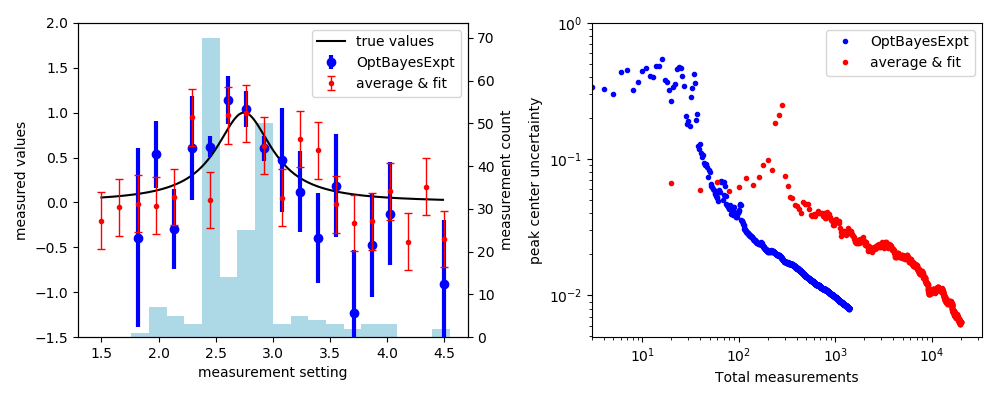
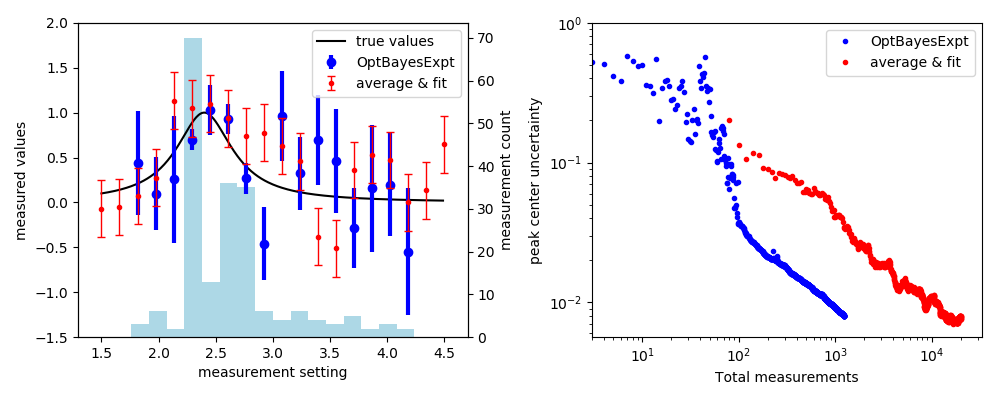
make tweaks to 2nd demo

diff --git a/Docs/manual.html b/Docs/manual.html
@@ -13162,8 +13162,10 @@ March 29, 2019</p>
 <p><a id="requirements"></a></p>
 <h2 id="Requirements-for-users">Requirements for users<a class="anchor-link" href="#Requirements-for-users">&#182;</a></h2><p>It takes a little effort to get this software up and running.  Here's what a user will need to supply to get started.</p>
 <ol>
+<li>Python 3.x</li>
+<li>numpy python package</li>
 <li>An experiment that yields measurement results with uncertainty estimates. </li>
-<li>A model for the experiment - typically a function with parameters to be determined. </li>
+<li>A parametric model for the experiment - typically a function with parameters to be determined. </li>
 <li>A working knowledge of Python programming - enough to follow examples and program your own model.</li>
 </ol>
 
@@ -13184,7 +13186,7 @@ March 29, 2019</p>
 </div><div class="inner_cell">
 <div class="text_cell_render border-box-sizing rendered_html">
 <h3 id="10-$\times$-measurement-speedup">10 $\times$ measurement speedup<a class="anchor-link" href="#10-$\times$-measurement-speedup">&#182;</a></h3><p><img src="images/rootN.png" alt="Mechanism of speedup"></p>
-<p>Figure 2: A different view of the Lorentzian peak problem, contrasting efficiency diffrences between methods.   The left panel shows results after 200 measurements of a peak.  In the "average &amp; fit" method, 10 simulated measurements are averaged at each of 20 points.  In the OptBayesExpt method, the algorithm focuses attention on the sides of the peak, as shown in the histogram.  The right panel plots the evolution of uncertainty with the number of accumulated measurements.  Both the average &amp; fit technique and the OptBayesExpt method scale like $1/\sqrt{N}$ ($N$ = measurement number) for large $N$, but the BayesOptExpt requires approximately 10 times fewer measurements to achieve the same uncertainty.  For the OptBayesExpt results, the uncertatinty is the standard deviation of the parameter distribution function, with peak height and background treated as nuisance variables.  The average &amp; fit method used <code>scipy.optimize.curve_fit()</code>.  The uncertainty plotted here is the square root of the diagonal element in the covariance matrix.  Details: the peak height, background level and peak center are treated as unknowns, and the half-width linewidth is fixed at 0.3.  The simulated experimental noise is Gaussian with standard deviation $\sigma = 1$.  Repeated runs show a variety of OptBayesExpt behaviors with the initial measurements, which is typically followed by a rapid decrease in the uncertainty and a transition to $1/\sqrt{N}$ behavior. See <code>Demos/demoLorentzian2.py</code>.</p>
+<p>Figure 2: A different view of the Lorentzian peak problem, contrasting efficiency diffrences between methods.   The left panel shows results after 200 measurements of a peak.  In the "average &amp; fit" method, 10 simulated measurements are averaged at each of 20 points.  In the OptBayesExpt method, the algorithm focuses attention on the sides of the peak, as shown in the histogram.  Note the small error bars at setting values with many measurements. The right panel plots the evolution of uncertainty with the number of accumulated measurements.  Both the average &amp; fit technique and the OptBayesExpt method scale like $1/\sqrt{N}$ ($N$ = measurement number) for large $N$, but the BayesOptExpt requires approximately 10 times fewer measurements to achieve the same uncertainty.  For the OptBayesExpt results, the uncertatinty is the standard deviation of the parameter distribution function, with peak height and background treated as nuisance variables.  The average &amp; fit method used <code>scipy.optimize.curve_fit()</code>.  The uncertainty plotted here is the square root of the diagonal element in the covariance matrix.  Details: the peak height, background level and peak center are treated as unknowns, and the half-width linewidth is fixed at 0.3.  The simulated experimental noise is Gaussian with standard deviation $\sigma = 1$.  Repeated runs show a variety of OptBayesExpt behaviors with the initial measurements, which is typically followed by a rapid decrease in the uncertainty and a transition to $1/\sqrt{N}$ behavior. See <code>Demos/demoLorentzian2.py</code>.</p>
 
 </div>
 </div>
@@ -13193,7 +13195,7 @@ March 29, 2019</p>
 </div><div class="inner_cell">
 <div class="text_cell_render border-box-sizing rendered_html">
 <h3 id="Tuning-a-$\pi$-pulse">Tuning a $\pi$ pulse<a class="anchor-link" href="#Tuning-a-$\pi$-pulse">&#182;</a></h3><p><img src="images/pipulsefig2.png" alt="measurements of transition probability vs pulse length and detuning"></p>
-<p>Figure 2: A $\pi$ pulse is a method of inverting spins that is frequenly used in nuclear magnetic resonance (NMR and MRI) and pulsed electron paramagnetic resonance (EPR).  In order to be accurate, the duration and frequency of the pulse must be tuned.  On the left, the background image displays the model photon counts for optically detected spin manipulation for different detunings and pulse lengths.  White indicates the expected result for spin up and black, spin down.  Points indicate simulated measurement settings, with sequence in order from white to dark red.  Simulated measurements have 1$\sigma$ uncertainties of 100.  The right panel shows the probability distribution function after 50 measurements, with the red dot at the simulated "true" value.  The grey line shows the path of the probability maximum.  See <code>Demos.pipulse.py</code>.</p>
+<p>Figure 3: A $\pi$ pulse is a method of inverting spins that is frequenly used in nuclear magnetic resonance (NMR and MRI) and pulsed electron paramagnetic resonance (EPR).  In order to be accurate, the duration and frequency of the pulse must be tuned.  On the left, the background image displays the model photon counts for optically detected spin manipulation for different detunings and pulse lengths.  White indicates the expected result for spin up and black, spin down.  Points indicate simulated measurement settings, with sequence in order from white to dark red.  Simulated measurements have 1$\sigma$ uncertainties of 100.  The right panel shows the probability distribution function after 50 measurements, with the red dot at the simulated "true" value.  The grey line shows the path of the probability maximum.  See <code>Demos.pipulse.py</code>.</p>
 
 </div>
 </div>
@@ -13202,7 +13204,7 @@ March 29, 2019</p>
 </div><div class="inner_cell">
 <div class="text_cell_render border-box-sizing rendered_html">
 <h3 id="Slope-Intercept">Slope Intercept<a class="anchor-link" href="#Slope-Intercept">&#182;</a></h3><p><img src="images/slopeintercept.png" alt="Straight line measurement examples"></p>
-<p>Figure 3: This demo uses a straight line model, a case where we know ahead of time where the "best" measurements should be made.  Measurements at the ends of a line are the most effective at reducing uncertainty in the slope and intercept values.  But perhaps we also need to be convinced or reassured that the straight line model is appropriate, and we'd like to have some data in the middle, too. The OptBayesExpt class provides two methods for flexibility in measurement selection.  The <code>opt_setting()</code> method selects the setting with the highest <em>utility</em> $\max[U(x)]$.  The first panel shows that it behaves as expected, choosing measurements at the ends of the line.  The <code>good_setting()</code> method is more flexible, selecting settings with a probability based on the <em>utility</em> and the <code>pickiness</code> parameter.  The 2nd through 4th panels show that the <code>good_setting()</code> algorithm selects more diverse setting values as the <code>pickiness</code> is reduced.  Note also that the standard deviations increase from left to right as measurement resources are diverted away from reducing uncertainty.  Each run uses 40 points.  See <code>Demos/slopeintercept.py</code>.</p>
+<p>Figure 4: This demo uses a straight line model, a case where we know ahead of time where the "best" measurements should be made.  Measurements at the ends of a line are the most effective at reducing uncertainty in the slope and intercept values.  But perhaps we also need to be convinced or reassured that the straight line model is appropriate, and we'd like to have some data in the middle, too. The OptBayesExpt class provides two methods for flexibility in measurement selection.  The <code>opt_setting()</code> method selects the setting with the highest <em>utility</em> $\max[U(x)]$.  The first panel shows that it behaves as expected, choosing measurements at the ends of the line.  The <code>good_setting()</code> method is more flexible, selecting settings with a probability based on the <em>utility</em> and the <code>pickiness</code> parameter.  The 2nd through 4th panels show that the <code>good_setting()</code> algorithm selects more diverse setting values as the <code>pickiness</code> is reduced.  Note also that the standard deviations increase from left to right as measurement resources are diverted away from reducing uncertainty.  Each run uses 40 points.  See <code>Demos/slopeintercept.py</code>.</p>
 
 </div>
 </div>

diff --git a/Demos/demoLorentzian2.py b/Demos/demoLorentzian2.py
@@ -220,7 +220,6 @@ def batchplot():
     scantrace = np.loadtxt('trace10.txt', unpack=True)
     obetrace = np.loadtxt('obetrace.txt', unpack=True)
 
-
     obex = obetrace[0]
     obey = obetrace[1]
     sortindices = np.argsort(obex)
@@ -312,11 +311,11 @@ def batchplot():
 Nmeasure = 20
 Nbatch = 1000
 
-smartmeasure = True
 optimum = True
-pickiness = 7
 noiselevel = 1
-drawplots = 50
 
-batchdata()
+# data calculations stored in .txt files
+# batchdata()
+
+# read .txt files and make plots
 batchplot()
